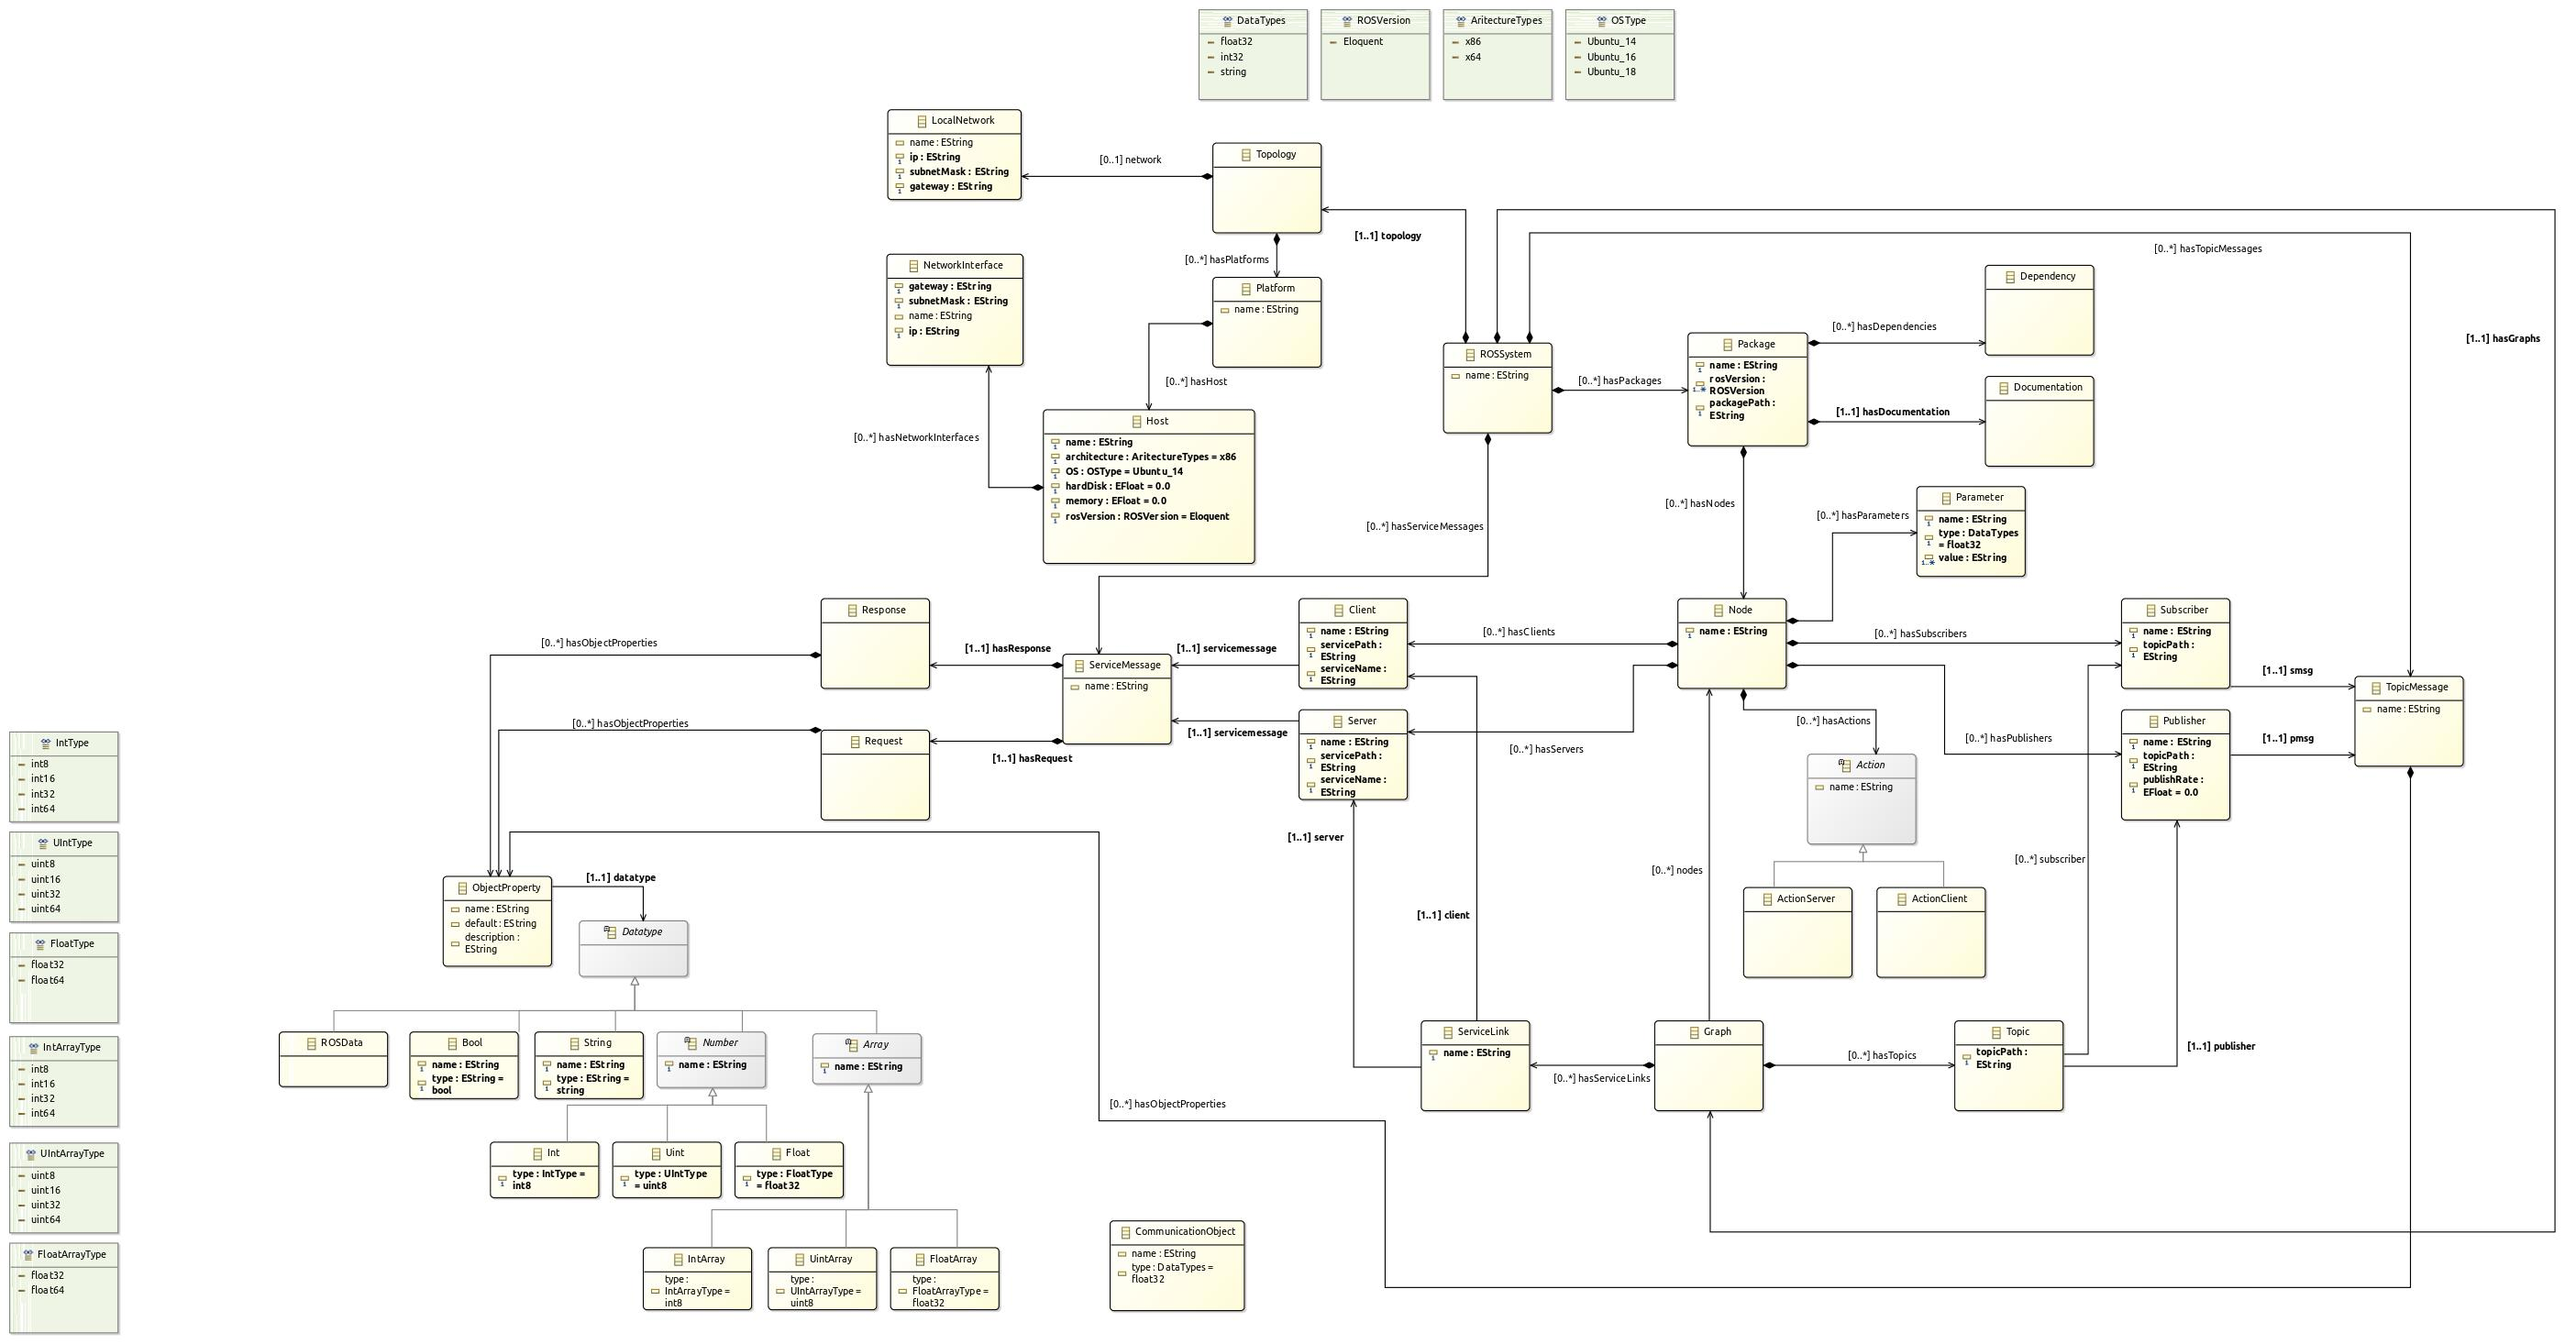
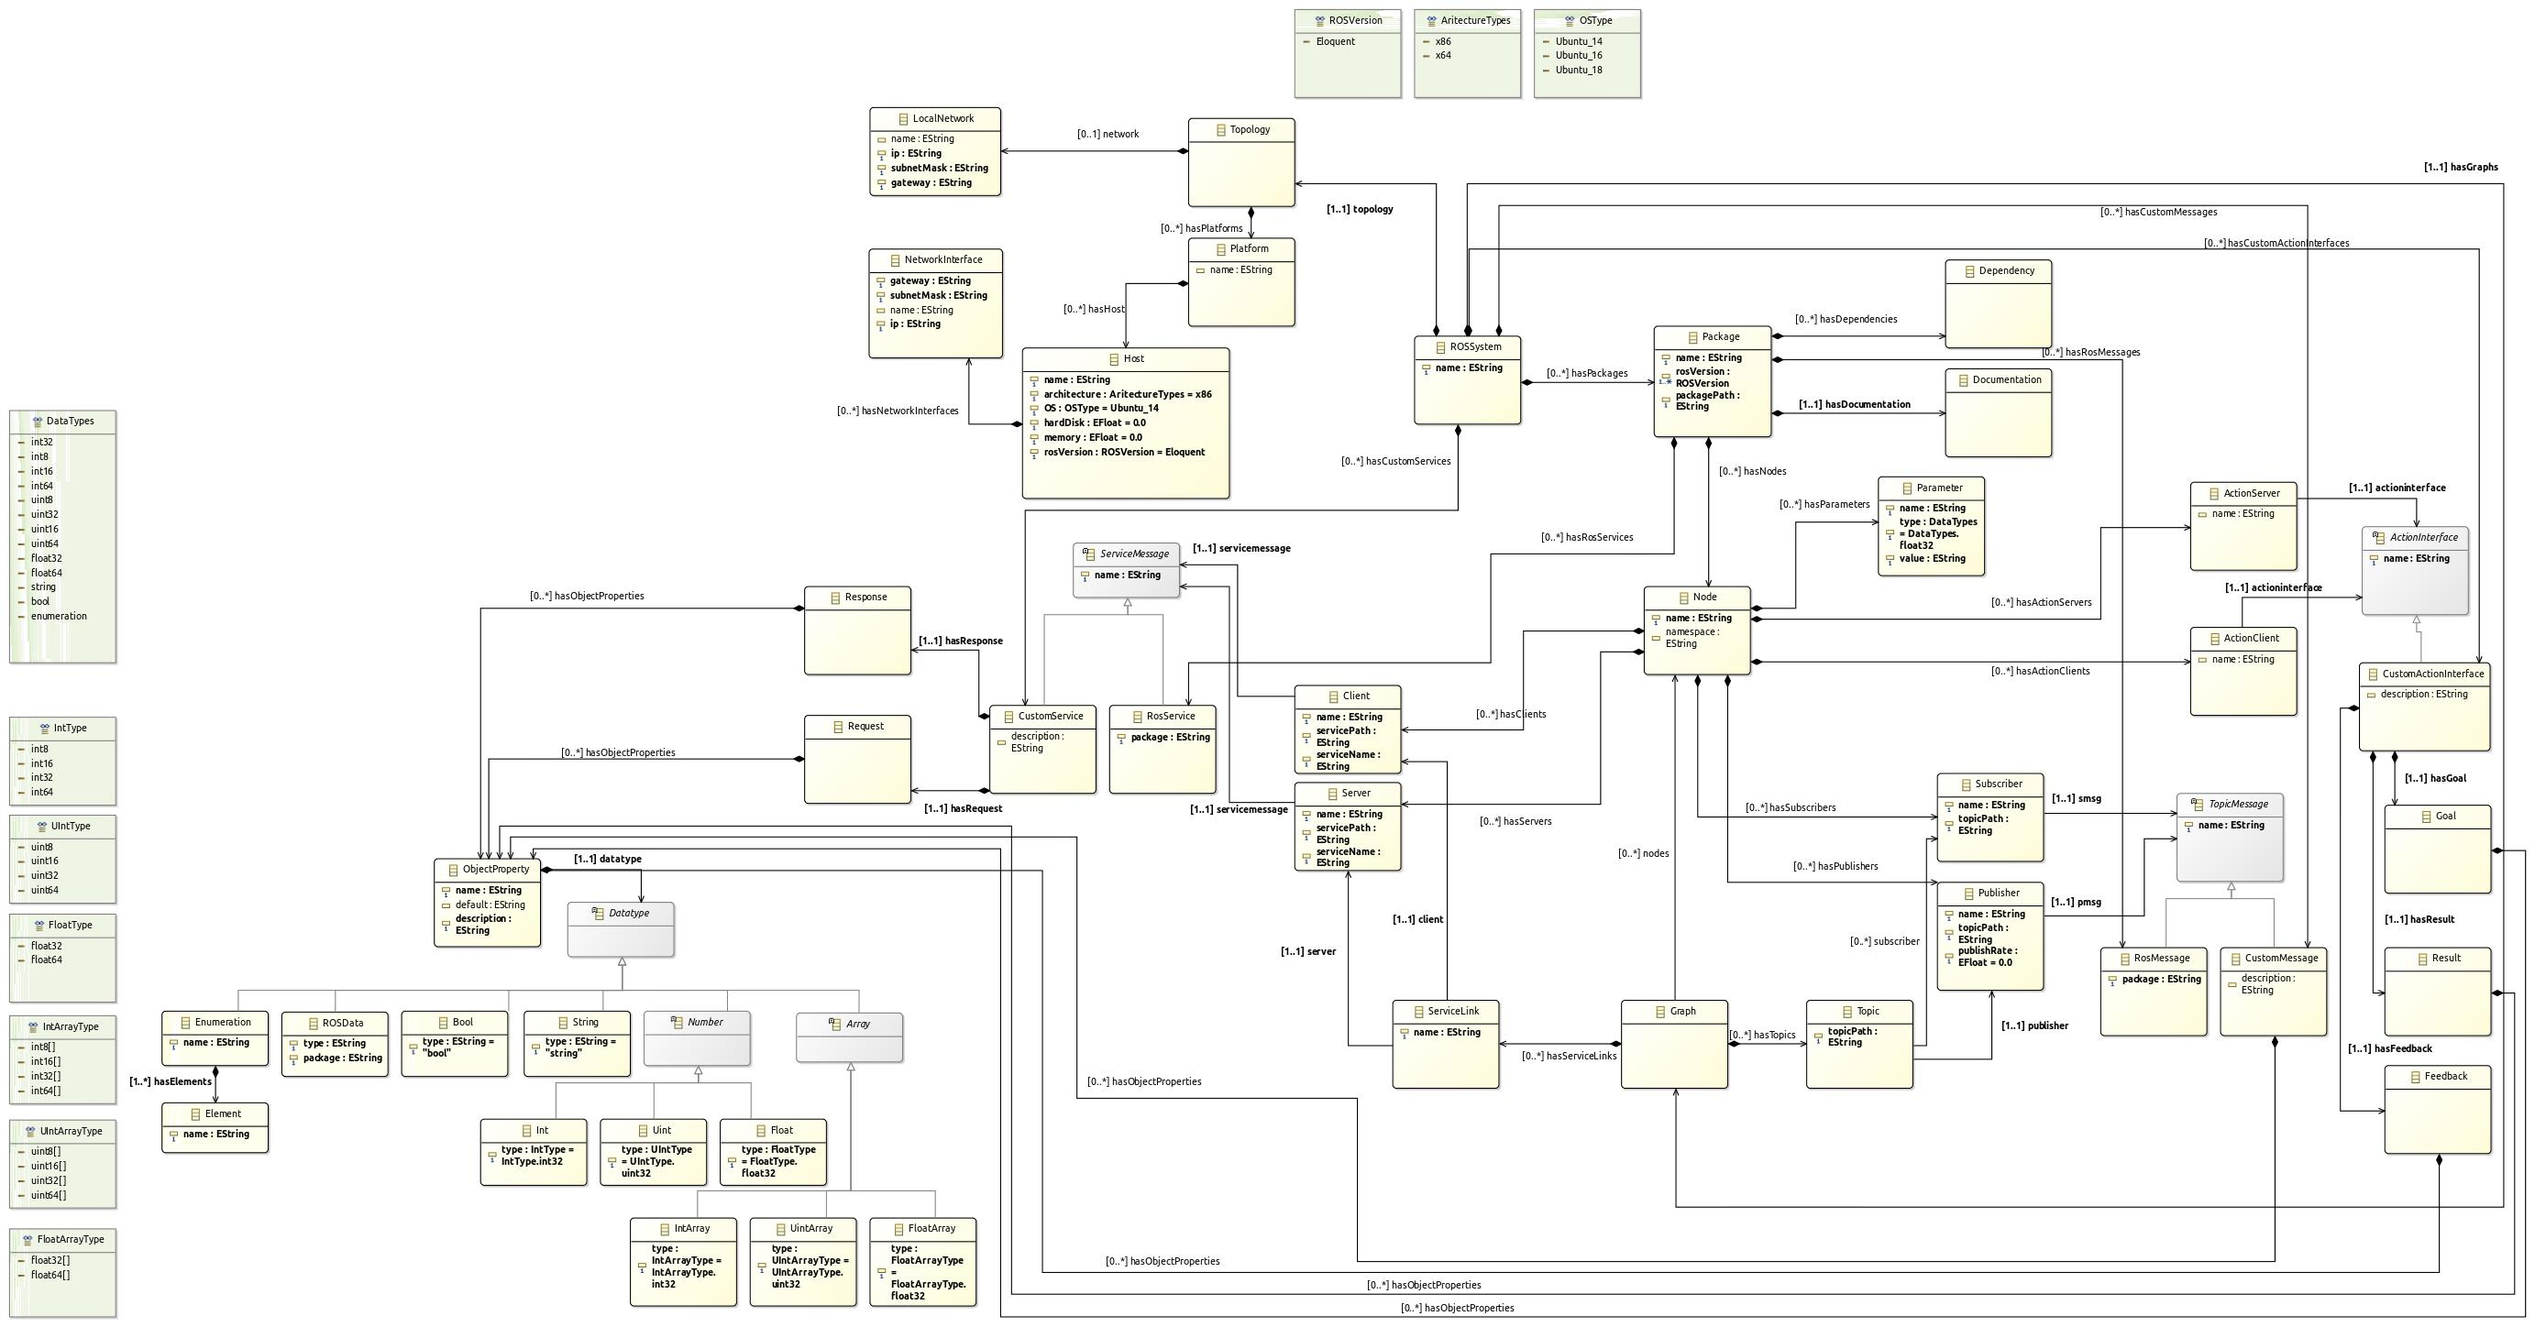
updating README

diff --git a/README.md b/README.md
@@ -1,21 +1,21 @@
-# generos
+# Generos
 A Domain Specific Language to generate easilly ROS2 packages.
 
 ## metamodelLib:
-This folder contains python module called "metamodel" implementing the metamodel of the [ROS2](https://index.ros.org/doc/ros2/Tutorials/) world. The module also contains all the EClasses and the behavior, to build powerfull models. The folder contains also the ecore implementation of the metamodel in the file "metamodel.ecore". Anyone can import the python module or the ecore implcolcon buildementation to build models almost the same way. Finally, the file named "metamodelGenerator.py" reeds the ecore implementation of the "metamodel.ecore" and generates the python module "metamodel", using [pyecoregen](https://github.com/pyecore/pyecoregen). The "metamodel.jpg" is the image of the metamodel diagram from the Eclipse Modeling Framework. You can see the diagram below.
+This folder contains python module called "metamodel" implementing the metamodel of the [ROS2](https://index.ros.org/doc/ros2/Tutorials/) world. The module also contains all the EClasses and the behavior, to build powerfull models. The folder contains also the ecore implementation of the metamodel in the file "metamodel.ecore". Anyone can import the python module or the ecore impementation to build models almost the same way. Finally, the file named "metamodelGenerator.py" reeds the ecore implementation of the "metamodel.ecore" and generates the python module "metamodel", using [pyecoregen](https://github.com/pyecore/pyecoregen). The "metamodel.jpg" is the image of the metamodel diagram from the Eclipse Modeling Framework. You can see the diagram below.
 
 ![Metamodel](/metamodelLib/metamodel.jpg)
 
 ______________________________________________________________________________
 
 ## models:
-This folder demenstrates some kind of model that could be generated into ROS2 package from the system. The "model.py" receives the ecore metamodel to validate and builds the "test.xmi" file using [pyecore](https://buildmedia.readthedocs.org/media/pdf/pyecore/latest/pyecore.pdf). The "model2.py" model receives the metamodel python module to validate and builds the "test2.xmi" file using [pyecore](https://buildmedia.readthedocs.org/media/pdf/pyecore/latest/pyecore.pdf). The "modelj.json" is an example json model. Any of the xmi or json file with this format (created or generated) could work as an input in the ROS2 package generator mechanism.
+This folder demenstrates some kind of models that could be generated into ROS2 package from the system. The "model.py" receives the ecore metamodel to validate and builds the "test.xmi" file using [pyecore](https://buildmedia.readthedocs.org/media/pdf/pyecore/latest/pyecore.pdf). The "model2.py" model receives the metamodel python module to validate and builds the "test2.xmi" file using [pyecore](https://buildmedia.readthedocs.org/media/pdf/pyecore/latest/pyecore.pdf). The "modelj.json" is an example of a json model. Any of the xmi or json file with this format (created or generated) could work as an input in the ROS2 package generator mechanism of Generos.
 ______________________________________________________________________________
 
 ## templates:
 This folder contains all the [jinja2](https://buildmedia.readthedocs.org/media/pdf/jinja/latest/jinja.pdf) templates that the ROS2 package generator mechanism loads to build the ROS2 package. 
 
-- The temp_CMakeLists.txt is a template of the CMakeLists.txt file, needed to build a ROS2 package called "interfaces" implementing all the interfaces (custom Srv and Msg) created by the user.
+- The temp_CMakeLists.txt is a template of the CMakeLists.txt file, needed to build a ROS2 package called "interfaces" implementing all the interfaces (custom Srv, Msg and Actions) created by the user.
 
 - The temp_cpppaackage.xml is a template of the package.xml file, needer to build the "interfaces" package.
 
@@ -23,32 +23,34 @@ This folder contains all the [jinja2](https://buildmedia.readthedocs.org/media/p
 
 - The temp_srv.srv is a template of the custom srv type, created by the user in the "interfaces" package.
 
-- The temp_node.py is a template of the node implementation. In every node all the callbacks, the publishers, subscribers and Services are working in the generated executable named "<Node's name>_exec". For every client in the node, another executable is generated, named "<Node's name>_<Client's name>", so it can be called seperatelly.
+- The temp_action.action is a template of the custom action type, created by the user in the "interfaces" package.
+
+- The temp_node.py is a template of the node implementation. In every node all the callbacks, the Publishers, Subscribers, Services, Clients, Action Servers and Action Clients are working in the generated executable named "{Node's name}_exec". For every Client in the node, another executable is generated, named "{Node's name}_[Client's name}", so it can be called seperatelly. This extra executable run once, until the Server's response and exits.
 
 - The temp_package.xml is a template of the package.xml file of the generated package. It contains the package and the maintainer information, as long as the dependencies.
 
 - The temp_setup.cfg is a template of the setup.cfg file of the generated package
 
-- The temp_setup.py is a template of the setup.py file of the generated package. It contains one enrty point per node, an executable called "<Node's name>_exec" to the function called "main" inside the nodes. For every client into a node, it creates another entry point named "<Node's name>_<Client's name>" to the function called "<Client's name>".
+- The temp_setup.py is a template of the setup.py file of the generated package. It contains one enrty point per node, an executable called "{Node's name}_exec" to the function called "main" inside the nodes. For every client into a node, it creates another entry point named "{Node's name}_{Client's name}" to the function called "{Client's name}".
 
 ______________________________________________________________________________
 ## workspace:
-This folder is generated from the ROS2 package generator mechanism. It contains the "src" folder with the package "interfaces" and all the created by the user packages. The package "interfaces" is a Cpp package, implementing all the custom srv and msg that the user created. The rest of the packages, are those the user created, generated in Python. In the packages there is one enrty point per node, an executable called "<Node's name>_exec" to the function called "main" inside the nodes. For every client into a node, it creates another entry point named "<Node's name>_<Client's name>" to the function called "<Client's name>".
+This folder is generated from the ROS2 package generator mechanism. It contains the "src" folder with the package "interfaces" and all the created by the user packages. The package "interfaces" is a Cpp package, implementing all the custom action, srv and msg that the user created. The rest of the packages, are those the user created, generated in Python. In the packages there is one enrty point per node, an executable called "{Node's name}_exec" to the function called "main" inside the nodes. For every Client into a node, there is another entry point named "{Node's name}_{Client's name}" to the function called "{Client's name}".
 
 To run the executables After generating the code from the model go to the workspace root (folder named "workspace") in terminal and run the comands:
 ```
 $ colcon build
 $ . install/setup.bash
-$ ros2 run <package_name> <executable_name>
+$ ros2 run {package_name} {executable_name}
 ```
 
 You can now open multiple terminals from the workspace root (folder named "workspace") and run executables simultaneously. You don't need to build the packages again, just to locate the ROS2. so run the commands:
 ```
 $ . install/setup.bash
-$ ros2 run <package_name> <executable_name>
+$ ros2 run {package_name} {executable_name}
 ```
 
-**After any change into the package you need to build the packages once (with $ colcon build). But every time you need to locate ROS2 before running an executable (with $ . install/setup.bash)
+**After any change into the package you need to build the packages once (with ```$ colcon build```). But every time you need to locate ROS2 before running an executable (with ```$ . install/setup.bash```)
 
 ______________________________________________________________________________
 ## packageGenerator.py:
